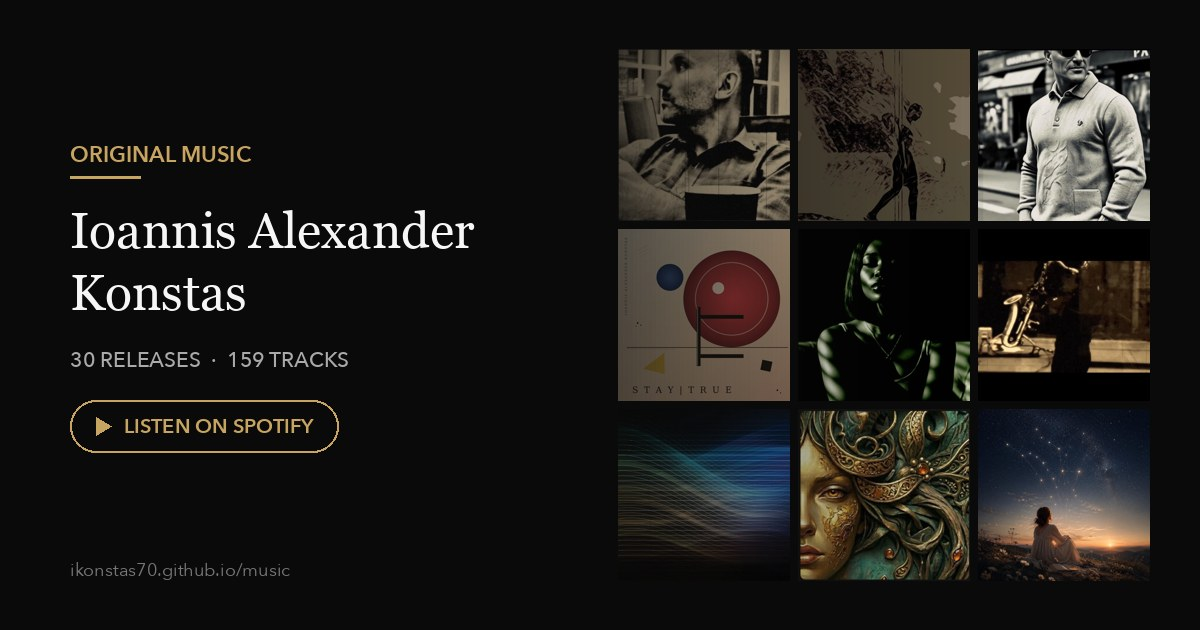
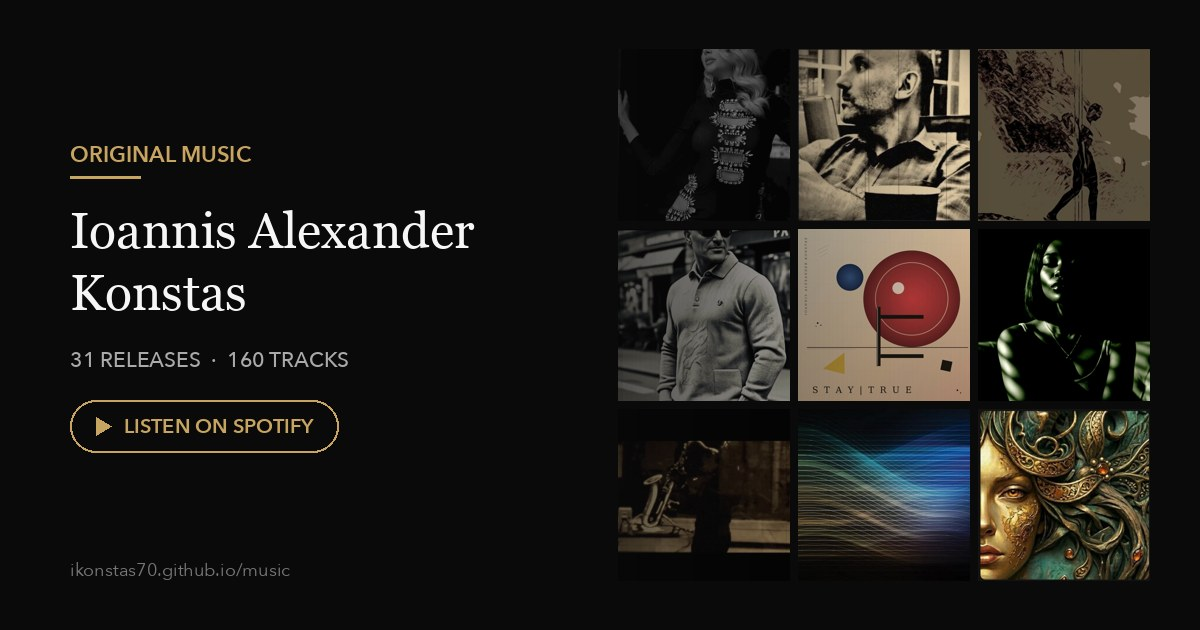
Add Palmyra single to discography

Changed region(s): [[0.4933, 0.0603, 0.9558, 0.9349], [0.185, 0.5429, 0.2158, 0.573]]

diff --git a/albums/palmyra.html b/albums/palmyra.html
@@ -1,0 +1,70 @@
+<!DOCTYPE html>
+<html lang="en">
+<head>
+<link rel="canonical" href="https://ikonstas70.github.io/music/albums/palmyra.html">
+<meta charset="utf-8">
+<meta name="viewport" content="width=device-width, initial-scale=1">
+<title>Palmyra &mdash; Ioannis Alexander Konstas</title>
+<meta name="description" content="Palmyra &mdash; single by Ioannis Alexander Konstas. 1 track. Stream on Spotify.">
+<meta name="author" content="Ioannis Alexander Konstas">
+
+<meta property="og:type" content="music.album">
+<meta property="og:url" content="https://ikonstas70.github.io/music/albums/palmyra.html">
+<meta property="og:title" content="Palmyra &mdash; Ioannis Alexander Konstas">
+<meta property="og:description" content="Palmyra &mdash; single by Ioannis Alexander Konstas. 1 track. Stream on Spotify.">
+<meta property="og:image" content="https://ikonstas70.github.io/music/share/palmyra.jpg">
+<meta property="og:image:secure_url" content="https://ikonstas70.github.io/music/share/palmyra.jpg">
+<meta property="og:image:type" content="image/jpeg">
+<meta property="og:image:width" content="1200">
+<meta property="og:image:height" content="630">
+<meta property="og:image:alt" content="Palmyra cover art">
+<meta property="og:site_name" content="Ioannis Alexander Konstas &mdash; Music">
+<meta name="twitter:card" content="summary_large_image">
+<meta name="twitter:title" content="Palmyra &mdash; Ioannis Alexander Konstas">
+<meta name="twitter:description" content="Palmyra &mdash; single by Ioannis Alexander Konstas. 1 track. Stream on Spotify.">
+<meta name="twitter:image" content="https://ikonstas70.github.io/music/share/palmyra.jpg">
+
+<link rel="stylesheet" href="/music/style.css">
+</head>
+<body>
+<div class="wrap">
+  <header class="site">
+    <a class="brand" href="/music/">Ioannis Alexander Konstas<em>.</em></a>
+    <div class="tagline">Original Music</div>
+    <div class="rule"></div>
+    <nav class="top">
+      <a href="/music/">Discography</a>
+      <a href="https://open.spotify.com/artist/7gbVmhIUyDkCw47jHlkiTF">Spotify Profile</a>
+    </nav>
+  </header>
+
+  <main>
+    <img class="album-cover" src="../covers/palmyra.jpg" alt="Palmyra cover art">
+    <h1 style="text-align:center">Palmyra</h1>
+    <p class="meta" style="text-align:center">Single &middot; 1 song &middot; 5 min 48 sec &middot; 2026</p>
+
+    <div class="spotify-embed">
+      <iframe src="https://open.spotify.com/embed/album/7CEKcDj0r1SZAV4mhNzvUd?utm_source=oembed" width="100%" height="352" frameborder="0" allowfullscreen="" allow="autoplay; clipboard-write; encrypted-media; fullscreen; picture-in-picture" loading="lazy" title="Spotify Embed: Palmyra"></iframe>
+    </div>
+
+    <h2>Tracklist</h2>
+    <p class="source-note">Tap a track to play a preview right here, via Spotify&rsquo;s own player.</p>
+    <ol class="tracklist">
+      <li><span class="tn">1</span><button type="button" class="tt" data-track-id="1syxaiMKSdkLJojECgow3v">Palmyra</button><span class="td">5:48</span></li>
+    </ol>
+
+    <p style="text-align:center;"><a href="https://open.spotify.com/album/7CEKcDj0r1SZAV4mhNzvUd">Listen on Spotify &rarr;</a></p>
+    <a class="artist-link" href="https://open.spotify.com/artist/7gbVmhIUyDkCw47jHlkiTF">Follow on Spotify &middot; Ioannis Alexander Konstas</a>
+
+    <p class="source-note" style="text-align:center; margin-top:40px;">&#8471; &amp; &copy; 2026 6722978 Records DK</p>
+
+    <p style="margin-top:32px;"><a href="/music/">&larr; Back to Discography</a></p>
+  </main>
+
+  <footer class="site">
+    <p>&copy; 2026 Ioannis Konstas &middot; <a href="https://github.com/ikonstas70">github.com/ikonstas70</a></p>
+  </footer>
+</div>
+<script src="/music/music.js"></script>
+</body>
+</html>

diff --git a/index.html b/index.html
@@ -5,13 +5,13 @@
 <meta charset="utf-8">
 <meta name="viewport" content="width=device-width, initial-scale=1">
 <title>Ioannis Alexander Konstas — Music</title>
-<meta name="description" content="Original music by Ioannis Alexander Konstas — 30 releases, 159 tracks. Stream on Spotify.">
+<meta name="description" content="Original music by Ioannis Alexander Konstas — 31 releases, 160 tracks. Stream on Spotify.">
 <meta name="author" content="Ioannis Alexander Konstas">
 
 <meta property="og:type" content="website">
 <meta property="og:url" content="https://ikonstas70.github.io/music/">
 <meta property="og:title" content="Ioannis Alexander Konstas — Music">
-<meta property="og:description" content="Original music by Ioannis Alexander Konstas — 30 releases, 159 tracks. Stream on Spotify.">
+<meta property="og:description" content="Original music by Ioannis Alexander Konstas — 31 releases, 160 tracks. Stream on Spotify.">
 <meta property="og:image" content="https://ikonstas70.github.io/music/share/discography.jpg">
 <meta property="og:image:secure_url" content="https://ikonstas70.github.io/music/share/discography.jpg">
 <meta property="og:image:type" content="image/jpeg">
@@ -20,7 +20,7 @@
 <meta property="og:site_name" content="Ioannis Alexander Konstas — Music">
 <meta name="twitter:card" content="summary_large_image">
 <meta name="twitter:title" content="Ioannis Alexander Konstas — Music">
-<meta name="twitter:description" content="Original music by Ioannis Alexander Konstas — 30 releases, 159 tracks. Stream on Spotify.">
+<meta name="twitter:description" content="Original music by Ioannis Alexander Konstas — 31 releases, 160 tracks. Stream on Spotify.">
 <meta name="twitter:image" content="https://ikonstas70.github.io/music/share/discography.jpg">
 
 <link rel="stylesheet" href="/music/style.css">
@@ -39,9 +39,14 @@
 
   <main>
     <h1 style="text-align:center">Discography</h1>
-    <p class="section-intro">30 releases, 159 tracks. Every track plays a preview right here via Spotify&rsquo;s own player &mdash; or follow through to stream the full catalog.</p>
+    <p class="section-intro">31 releases, 160 tracks. Every track plays a preview right here via Spotify&rsquo;s own player &mdash; or follow through to stream the full catalog.</p>
 
     <div class="discography-grid">
+      <a class="album-card" href="/music/albums/palmyra.html">
+        <img src="/music/covers/palmyra.jpg" alt="Palmyra cover art" loading="lazy">
+        <h3>Palmyra</h3>
+        <span class="ac-meta">Single &middot; 2026 &middot; 1 song</span>
+      </a>
       <a class="album-card" href="/music/albums/simeio-miden.html">
         <img src="/music/cover-simeio-midev.jpg" alt="Σημείο Μηδέν cover art" loading="lazy">
         <h3>Σημείο Μηδέν</h3>

diff --git a/tools/build_release_cards.py b/tools/build_release_cards.py
@@ -88,7 +88,7 @@ def index_card():
     d.text((x,140),"ORIGINAL MUSIC",font=AV(2,22),fill=GOLD); d.rectangle([x,176,x+70,178],fill=GOLD)
     d.text((x,202),"Ioannis Alexander",font=F("Georgia.ttf",50),fill=FG)
     d.text((x,264),"Konstas",font=F("Georgia.ttf",50),fill=FG)
-    d.text((x,346),"30 RELEASES  ·  159 TRACKS",font=AV(5,21),fill=DIM)
+    d.text((x,346),"31 RELEASES  ·  160 TRACKS",font=AV(5,21),fill=DIM)
     pill(d,x,400)
     d.text((x,H-72),"ikonstas70.github.io/music",font=AV(7,18),fill=(120,120,120))
     img.save(f"{OUT}/discography.jpg",quality=88,optimize=True,progressive=True)
